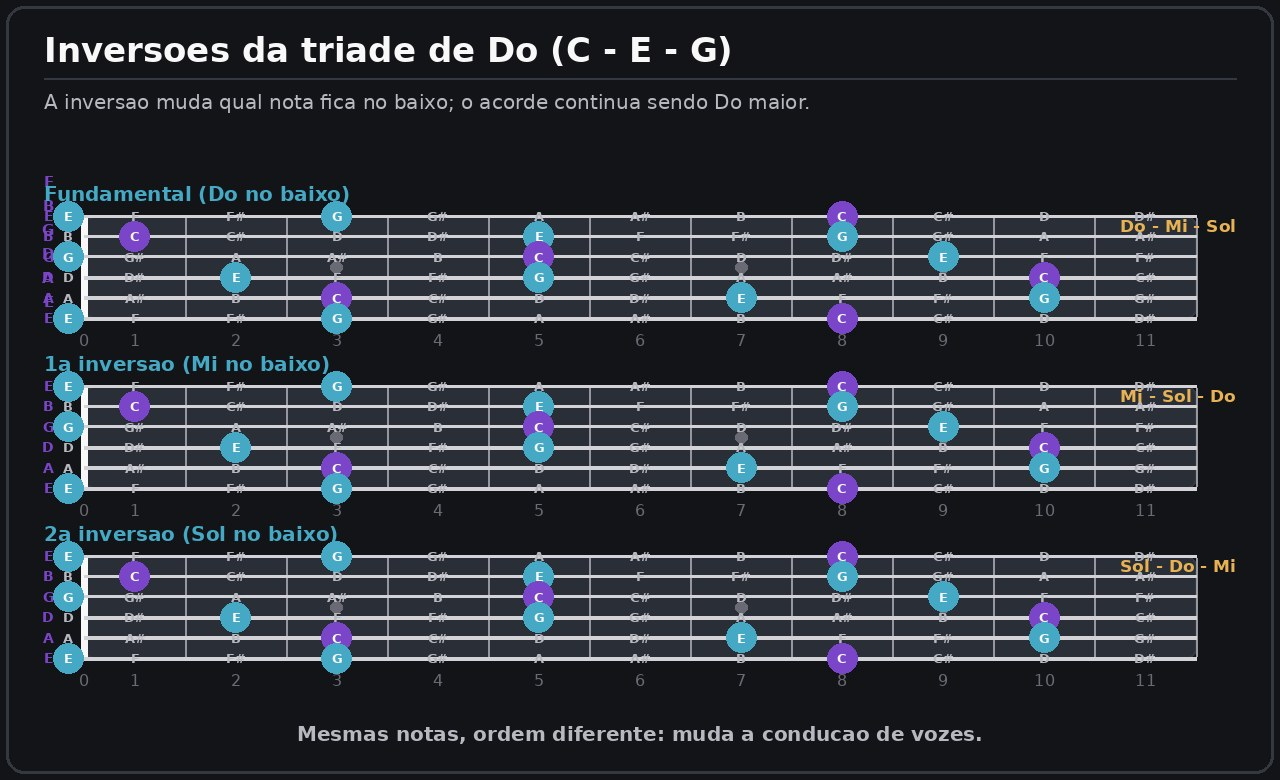
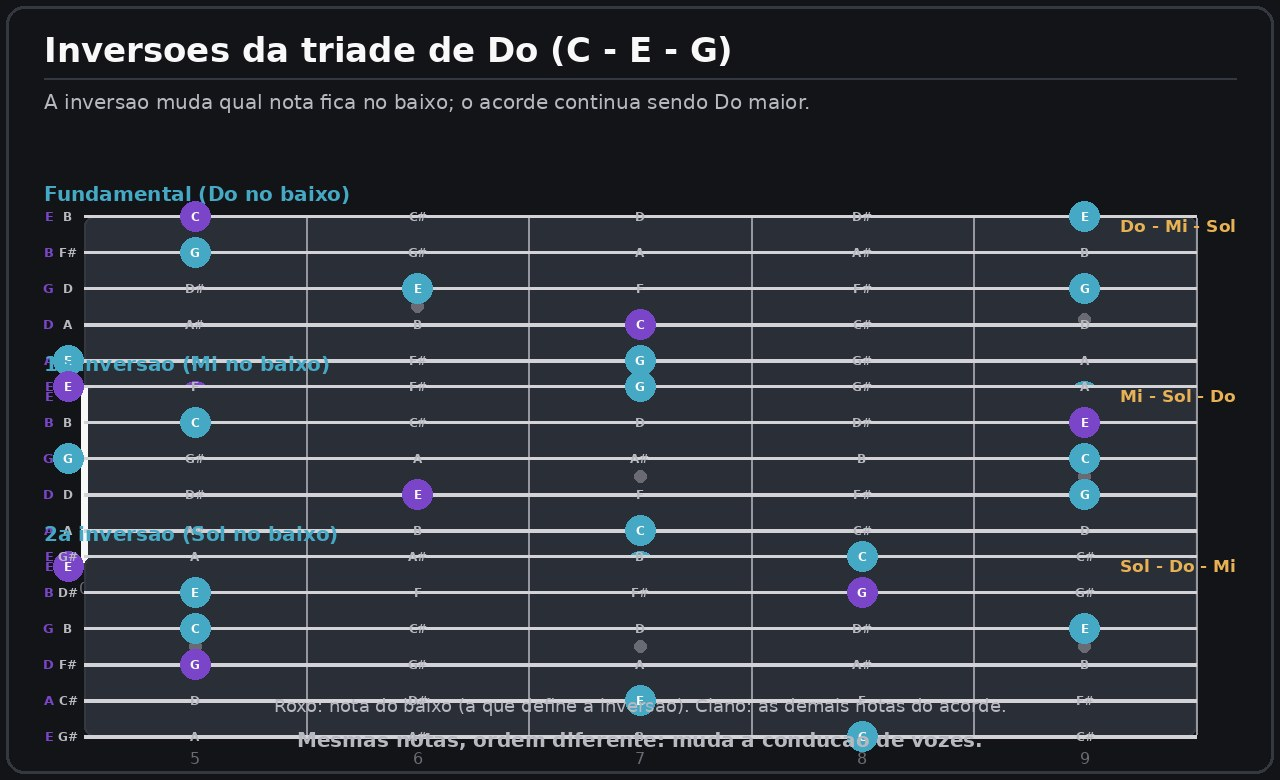
fix(modulo-4): corrige achados do painel de revisao
Achados bloqueantes do Musico (rodada 1, PR #15):
- Achado 1: partitura m4_partitura_familia nao batia com o audio (imagem
  desenhava C-E-G-Mib-Sol menor; audio tocava C-E-G-Mib-Solb diminuta).
  Alinha imagem e audio em C-E-G -> Mib-Solb (diminuta), legendas de
  Topic4B/Topic4H corrigidas, audio soletrado com bemois (Eb4, Gb4) e novo
  teste em testModule4() confere a correspondencia nota a nota.
- Achado 2/5: diagrama m4_inversoes desenhava o mesmo braco tres vezes (a
  variavel frets era dado morto). Agora cada linha destaca a nota do baixo
  da inversao (tonica, terca, quinta) na regiao correta do braco, com legenda.
- Achado 3: Topic4A dizia que Mi estava na '3a corda solta' (a 3a solta e
  Sol) -> corrigido para a 1a/6a corda.
- Achado 4: Topic4C dizia 'Sol na 1a corda solta' (a 1a solta e Mi) ->
  corrigido para Sol na 1a corda, casa 3, e Mi na 1a corda solta.

Menores:
- Achado 6: texto do gate alinhado ao numero de acordes (quatro; o modelo de
  improvisacao do nivel 2 e o 'vamp de 2 acordes').
- Soletracoes de audio alinhadas as cifras descritas (Bb, Eb, Ab, Gb).

Midia regenerada por tools/make_diagrams.py (idempotente). Suite em
1557/1557; app e testes compilam sem avisos.

diff --git a/tools/make_diagrams.py b/tools/make_diagrams.py
@@ -1024,18 +1024,28 @@ def d_m4_inversoes():
     frame(d, h)
     y = title(d, "Inversoes da triade de Do (C - E - G)")
     y = subtitle(d, "A inversao muda qual nota fica no baixo; o acorde continua sendo Do maior.", y)
-    string_labels(d, MARGIN + 10, y + 60, 3 * 40, gap_font=font(15, True))
-    for k, (label, frets, cap) in enumerate([
-            ("Fundamental (Do no baixo)", [-1, -1, 10, 9, 8, -1], "Do - Mi - Sol"),
-            ("1a inversao (Mi no baixo)", [-1, -1, 2, 0, 1, -1], "Mi - Sol - Do"),
-            ("2a inversao (Sol no baixo)", [-1, -1, 5, 5, 5, -1], "Sol - Do - Mi")]):
+    rows = [
+        ("Fundamental (Do no baixo)", [-1, -1, 10, 9, 8, -1], "Do - Mi - Sol"),
+        ("1a inversao (Mi no baixo)", [-1, -1, 2, 0, 1, -1], "Mi - Sol - Do"),
+        ("2a inversao (Sol no baixo)", [-1, -1, 5, 5, 5, -1], "Sol - Do - Mi"),
+    ]
+    for k, (label, frets, cap) in enumerate(rows):
         top = y + 60 + k * 170
         d.text((MARGIN, top), label, font=font(20, True), fill=CYAN, anchor="la")
-        string_labels(d, MARGIN + 10, top + 34, 3 * 34, gap_font=font(14, True))
-        fretboard(d, MARGIN + 40, top + 34, W - 2 * MARGIN - 80, 3 * 34, n_frets=11,
-                  start_fret=0, highlight={0, 4, 7}, root_pc=0, note_font=font(13, True))
+        string_labels(d, MARGIN + 10, top + 34, 6 * 30, gap_font=font(13, True))
+        # Pitch classes actually sounded, and the bass = lowest sounding string
+        # (the first non-muted entry, since TUNING runs from the 6th to the 1st).
+        sounded = {(open_midi + f) % 12 for (open_midi, _), f in zip(TUNING, frets) if f >= 0}
+        bass_pc = next((open_midi + f) % 12 for (open_midi, _), f in zip(TUNING, frets) if f >= 0)
+        played = [f for f in frets if f >= 0]
+        start = max(0, min(played) - 1)
+        n = max(5, max(played) - start + 2)
+        fretboard(d, MARGIN + 40, top + 34, W - 2 * MARGIN - 80, 6 * 30, n_frets=n,
+                  start_fret=start, highlight=sounded, root_pc=bass_pc, note_font=font(12, True))
         d.text((W - MARGIN, top + 34), cap, font=font(17, True), fill=GOLD, anchor="ra")
-    d.text((W / 2, h - 46), "Mesmas notas, ordem diferente: muda a conducao de vozes.",
+    d.text((W / 2, h - 74), "Roxo: nota do baixo (a que define a inversao). Ciano: as demais notas do acorde.",
+           font=font(18), fill=TXT2, anchor="mm")
+    d.text((W / 2, h - 40), "Mesmas notas, ordem diferente: muda a conducao de vozes.",
            font=font(20, True), fill=TXT2, anchor="mm")
     return img
 
@@ -1179,8 +1189,8 @@ def d_m4_partitura_tetrade():
 
 def d_m4_partitura_familia():
     return _score_image("m4_familia", [("C", 4, None), ("E", 4, None), ("G", 4, None),
-                                       ("E", 4, "b"), ("G", 4, None)],
-                        "Partitura: familia de Do (maior -> menor)")
+                                       ("E", 4, "b"), ("G", 4, "b")],
+                        "Partitura: familia de Do (maior -> diminuta)")
 
 
 def d_m4_partitura_progressao():

diff --git a/Source/Course/Content/Topic4B.cpp b/Source/Course/Content/Topic4B.cpp
@@ -48,8 +48,8 @@ std::vector<ContentItem> topic4B()
             { "Aumentada", "0–4–8", "Dó–Mi–Sol♯", "suspensa, flutuante" },
             { "Diminuta", "0–3–6", "Dó–Mi♭–Sol♭", "tensa, instável" },
         }),
-        aud ({ "C4", "E4", "G#4" }, "Tríade aumentada (Dó–Mi–Sol♯): som suspenso, que parece não resolver."),
-        aud ({ "C4", "D#4", "F#4" }, "Tríade diminuta (Dó–Mi♭–Sol♭): som tenso e instável."),
+        aud ({ "C4", "E4", "Ab4" }, "Tríade aumentada (Dó–Mi–Sol♯): som suspenso, que parece não resolver."),
+        aud ({ "C4", "Eb4", "Gb4" }, "Tríade diminuta (Dó–Mi♭–Sol♭): som tenso e instável."),
 
         h ("Onde a aumentada aparece"),
         p (
@@ -71,7 +71,7 @@ std::vector<ContentItem> topic4B()
         b ("Maior e menor: repousam, soam resolvidas."),
         b ("Aumentada: flutua, não repousa."),
         b ("Diminuta: tensiona, pede para resolver."),
-        aud ({ "C4", "E4", "G4", "C4", "E4", "G#4", "C4", "D#4", "F#4" },
+        aud ({ "C4", "E4", "G4", "C4", "E4", "Ab4", "C4", "Eb4", "Gb4" },
              "Dó maior, aumentado e diminuto em sequência: sinta o contraste de estabilidade."),
 
         h ("Tocar as tríades alteradas no instrumento"),
@@ -134,8 +134,8 @@ std::vector<ContentItem> topic4B()
         b ("Use a aumentada como acorde de passagem antes de um acorde estável."),
         b ("Use a diminuta para ligar dois acordes por cromatismo."),
         b ("A tensão precisa de contraste: não toque tudo alterado."),
-        part ("m4_partitura_familia", { "C4", "E4", "G4", "D#4", "F#4" },
-              "Partitura da família de Dó: da tríade maior (Dó–Mi–Sol) para a diminuta (Dó–Mi♭–Sol♭)."),
+        part ("m4_partitura_familia", { "C4", "E4", "G4", "Eb4", "Gb4" },
+              "Partitura da família de Dó: a tríade maior (Dó–Mi–Sol) e, em seguida, a terça e a quinta que descem para formar a diminuta (Dó–Mi♭–Sol♭)."),
 
         h ("Erros comuns"),
         p (

diff --git a/Source/Course/Content/Topic4A.cpp b/Source/Course/Content/Topic4A.cpp
@@ -49,11 +49,11 @@ std::vector<ContentItem> topic4A()
         h ("Maior e menor: a mesma forma, uma nota diferente"),
         p (
             "No braço, o acorde maior e o menor da mesma tônica ficam muito próximos. Muitas vezes basta levantar ou baixar um dedo na corda onde está a terça. Essa proximidade é a chave para trocar entre maior e menor sem mudar de posição — e é a base da harmonia que você vai usar em todas as músicas."),
-        b ("Dó maior: Dó–Mi–Sol (a terça, Mi, está na 3ª corda solta)."),
+        b ("Dó maior: Dó–Mi–Sol (a terça, Mi, é a 1ª corda solta; a 6ª também é Mi, duas oitavas abaixo)."),
         b ("Dó menor: Dó–Mi♭–Sol (a mesma forma, com a terça abaixada um semitom)."),
         b ("Ouvir a terça é ouvir a diferença entre os dois acordes."),
         aud ({ "C4", "E4", "G4" }, "Tríade maior (Dó–Mi–Sol): som aberto e estável."),
-        aud ({ "C4", "D#4", "G4" }, "Tríade menor (Dó–Mi♭–Sol): só a terça mudou, o som ficou fechado."),
+        aud ({ "C4", "Eb4", "G4" }, "Tríade menor (Dó–Mi♭–Sol): só a terça mudou, o som ficou fechado."),
 
         h ("Como ouvir a diferença"),
         p (

diff --git a/Source/Course/Content/Topic4C.cpp b/Source/Course/Content/Topic4C.cpp
@@ -97,7 +97,7 @@ std::vector<ContentItem> topic4C()
 
         h ("Disposição aberta com cordas soltas"),
         p (
-            "Uma das belezas da guitarra é poder usar cordas soltas na disposição aberta. Isso dá um som cristalino, com muito corpo, típico do violão. Em Dó maior, você pode tocar Dó na 5ª corda, Sol na 1ª corda solta e Mi na 4ª — a corda solta acrescenta brilho e ressonância. Esse recurso é explorado em arranjos de MPB, de bossa nova e de música instrumental."),
+            "Uma das belezas da guitarra é poder usar cordas soltas na disposição aberta. Isso dá um som cristalino, com muito corpo, típico do violão. Em Dó maior, você pode tocar Dó na 5ª corda (casa 3), Sol na 1ª corda (casa 3) e Mi na 1ª corda solta — a corda solta acrescenta brilho e ressonância. Esse recurso é explorado em arranjos de MPB, de bossa nova e de música instrumental."),
         b ("Cordas soltas acrescentam brilho e ressonância."),
         b ("Som típico do violão e da música instrumental."),
         b ("Explore as cordas soltas dentro do acorde."),

diff --git a/Source/Course/Content/Topic4F.cpp b/Source/Course/Content/Topic4F.cpp
@@ -40,7 +40,7 @@ std::vector<ContentItem> topic4F()
         b ("Essenciais: tônica, terça e sétima."),
         b ("Quinta: dispensável na maioria dos casos."),
         b ("Tensões (9, 11, 13): cor, mas opcionais."),
-        aud ({ "C4", "E4", "A#4" }, "Acorde reduzido ao essencial (Dó–Mi–Si♭): ainda se reconhece o dominante."),
+        aud ({ "C4", "E4", "Bb4" }, "Acorde reduzido ao essencial (Dó–Mi–Si♭): ainda se reconhece o dominante."),
 
         h ("Formação das tríades e das tétrades"),
         p (
@@ -80,7 +80,7 @@ std::vector<ContentItem> topic4F()
         b ("Terça: define maior ou menor."),
         b ("Quinta: define justa, aumentada ou diminuta."),
         b ("Sétima: define a família (7M, 7, m7…)."),
-        aud ({ "C4", "E4", "G4", "C4", "D#4", "G4", "C4", "E4", "G#4", "C4", "D#4", "F#4" },
+        aud ({ "C4", "E4", "G4", "C4", "Eb4", "G4", "C4", "E4", "Ab4", "C4", "Eb4", "Gb4" },
              "Alterando uma nota de cada vez: maior, menor, aumentado, diminuto."),
 
         h ("Acordes suspensos"),

diff --git a/tests/TestMain.cpp b/tests/TestMain.cpp
@@ -1255,6 +1255,21 @@ void testModule4()
                    "module 4 gate moves to A minor");
         }
     check (hasGate, "module 4 has a gate exercise");
+
+    // The score `m4_partitura_familia` shows the major triad and then the two
+    // notes that move down to turn it into the diminished triad (Dó–Mi–Sol →
+    // Dó–Mi♭–Sol♭). Its audio must match the image note for note: pitch classes
+    // 0, 4, 7 (major) then 3, 6 (the diminished third and fifth).
+    for (const auto& topic : m4->lessons)
+        for (const auto& item : topic.detail)
+            if (item.kind == ContentKind::score && item.imageName == "m4_partitura_familia")
+            {
+                std::vector<int> pcs;
+                for (const int m : item.notes)
+                    pcs.push_back (m % 12);
+                check (pcs == std::vector<int> ({ 0, 4, 7, 3, 6 }),
+                       "family score audio matches the image (Dó–Mi–Sol → Mi♭–Sol♭)");
+            }
 }
 
 int main()

diff --git a/Source/Course/ModuleCatalog.cpp b/Source/Course/ModuleCatalog.cpp
@@ -1546,9 +1546,10 @@ namespace
         };
 
         m.gateChallenge = juce::String::fromUTF8 (
-            "Tocar C – Am – F – G (vamp de 2 acordes, nível 2) a 72 BPM com ≥90% de "
-            "acerto de acordes e on_grid_ratio ≥ 0,78. Os acordes são tríades "
-            "construídas pelos intervalos estudados no módulo.");
+            "Tocar C – Am – F – G (quatro acordes; o modelo de improvisação do "
+            "nível 2 é o 'vamp de 2 acordes') a 72 BPM com ≥90% de acerto de "
+            "acordes e on_grid_ratio ≥ 0,78. Os acordes são tríades construídas "
+            "pelos intervalos estudados no módulo.");
 
         // Pattern and link the module must cite (REQ-007, REQ-010).
         m.practice.patternId = "PTN-A-TRIAD";

diff --git a/Source/Course/Content/Topic4H.cpp b/Source/Course/Content/Topic4H.cpp
@@ -110,8 +110,8 @@ std::vector<ContentItem> topic4H()
         b ("Fase 3: troca no tempo."),
         b ("Fase 4: acompanha a progressão inteira."),
         b ("Fase 5: cria livremente."),
-        part ("m4_partitura_familia", { "C4", "E4", "G4", "D#4", "F#4" },
-              "Partitura da família de Dó: a forma maior (Dó–Mi–Sol) e a diminuta (Dó–Mi♭–Sol♭)."),
+        part ("m4_partitura_familia", { "C4", "E4", "G4", "Eb4", "Gb4" },
+              "Partitura da família de Dó: a forma maior (Dó–Mi–Sol) e, em seguida, a terça e a quinta que descem para formar a diminuta (Dó–Mi♭–Sol♭)."),
 
         h ("Erros comuns"),
         p (

diff --git a/Source/Course/Content/Topic4E.cpp b/Source/Course/Content/Topic4E.cpp
@@ -51,7 +51,7 @@ std::vector<ContentItem> topic4E()
         b ("Tríade menor + sétima menor = m7."),
         b ("Tríade menor + sétima maior = m(maj7) — raro, som suspenso."),
         aud ({ "C4", "E4", "G4", "B4" }, "Dó com sétima maior (Dó7M): brilho e suspensão."),
-        aud ({ "C4", "E4", "G4", "A#4" }, "Dó com sétima dominante (Dó7): tensão que pede resolução."),
+        aud ({ "C4", "E4", "G4", "Bb4" }, "Dó com sétima dominante (Dó7): tensão que pede resolução."),
 
         h ("O que cada tétrade comunica"),
         p (

diff --git a/AGENTS.md b/AGENTS.md
@@ -357,6 +357,7 @@ Uma entrega só é "pronta" quando:
 | 2026-11-16 | orquestrador + musician + pm + po + tech-lead + architect + developer + qa + security-engineer + set | **Pipeline de módulos (Etapas) e painel de revisão.** Criados três sub-agentes: `module-author` (transforma uma Etapa de `docs/MUSIC.md` em módulo completo, no padrão do Módulo 2 — teoria ≥5 páginas/tópico, imagens, áudios, partituras com áudio, 3–5 exercícios/tópico, exercícios tocados no instrumento reconhecidos pelo app), `module-reviewer` (painel: Músico, PM, PO, Tech Lead, Arquiteto, Tech Lead, Software Engineers, Tech Lead, QA, Security, SET; qualquer problema volta ao autor e o painel **reinicia do começo**) e `release-reviewer` (revisão final cross-módulo: Arquiteto, Tech Lead, Software Engineers, Tech Lead; merge para `main` + instalador de teste). Um módulo por branch/PR; nenhum módulo aceito sem painel verde na mesma rodada; merge só por PR, sem reescrever histórico, backup antes de todo push (§11) | Todo o curso (Etapas 2–10) passa a ser produzido e revisado pelo mesmo pipeline, com qualidade e padrão verificáveis |
 | 2026-11-16 | musician + developer + architect + qa + set | **Módulo 2 (Etapa 2 — Teoria dos intervalos e percepção musical) implementado** como referência do padrão: `Source/Course/Intervals.*` (teoria pura de intervalos), `Source/Audio/TonePlayer.*` (áudio de exemplos, RT-safe, REQ-004), `ContentKind::audio`/`score` no modelo e na UI, `Exercise::interval` + `Exercise::usesGrid` e `evaluateIntervals` (o app reconhece as notas tocadas e confere a distância em semitons, em qualquer posição do braço); 8 tópicos (A–H), cada um com ≥5 páginas, imagens, tabelas, áudios e partitura com áudio; 3–5 exercícios por tópico (EX-2.*), gate `C–F–G–C` a 64 BPM; suíte em **950 checagens verdes** | Módulo 2 jogável e auditável; serve de gabarito para as Etapas seguintes |
 | 2026-11-16 | orquestrador + musician + pm + po + tech-lead + architect + developer + qa + security-engineer + set | **16 sub-agentes por Etapa (3–10) criados.** Cada Etapa 3–10 ganhou um **autor** (`mc-modulo-<N>`) e um **revisor** (`mc-rv-modulo-<N>`), já com objetivo, conteúdos, prática, tópicos sugeridos e os dados fixados da Etapa (nível, BPM meta, `on_grid_ratio`, branch). O autor segue o padrão do Módulo 2 (teoria ≥5 páginas/tópico, imagens, áudios, partituras com áudio, 3–5 exercícios/tópico, exercícios tocados reconhecidos pelo app) numa branch própria; o revisor roda o painel completo (Músico, PM, PO, Tech Lead, Arquiteto, Tech Lead, Software Engineers, Tech Lead, QA, Security, SET) e qualquer achado devolve o item ao autor, reiniciando o painel até todos passarem. As Etapas 3–10 são construídas **em paralelo**; a asserção final de `testModule2()` ("3..20 são placeholders") passa a ser uma regra genérica para as branches não conflitarem | As Etapas 3–10 passam a ser produzidas e revisadas em paralelo pelo mesmo pipeline verificável do Módulo 2 |
+| 2026-11-16 | mc-modulo-4 (autor) + musician + developer | **Módulo 4 — correção dos achados do painel de revisão (rodada 1, PR #15).** Quatro bloqueantes do Músico e dois menores: (1) a partitura `m4_partitura_familia` não batia com o áudio — a imagem desenhava C–E–G–Mi♭–**Sol** (menor) e o áudio tocava C–E–G–Mi♭–**Sol♭** (diminuta); alinhados imagem e áudio em C–E–G → Mi♭–Sol♭ (diminuta), com legendas corrigidas em `Topic4B`/`Topic4H` e o áudio soletrado com bemóis (`Eb4`,`Gb4`); novo teste em `testModule4()` confere a correspondência nota a nota. (2) o diagrama `m4_inversoes` desenhava o mesmo braço três vezes (a variável `frets` do laço era dado morto) — agora cada linha destaca a nota do **baixo** da inversão (tônica, terça, quinta) na região correta do braço, com legenda. (3) `Topic4A` dizia que Mi estava na "3ª corda solta" (a 3ª solta é Sol) — corrigido para a 1ª/6ª corda. (4) `Topic4C` dizia "Sol na 1ª corda solta" (a 1ª solta é Mi) — corrigido para Sol na 1ª corda, casa 3, e Mi na 1ª corda solta. (5) `frets` agora é usado (fim do código morto). (6) texto do gate alinhado ao número de acordes. Também alinhadas as soletrações de áudio (`Bb`,`Eb`,`Ab`,`Gb`) às cifras descritas. Suíte em **1557 checagens verdes**; app e testes compilam sem avisos; `python3 tools/make_diagrams.py` regenera as mídias de forma idempotente | Módulo 4 passa a cumprir o DoD de mídia (partitura ↔ áudio) e os fatos musicais; painel reinicia do revisor 1 |
 | 2026-11-16 | mc-modulo-4 (autor) + musician + developer | **Módulo 4 (Etapa 4 — construção de acordes: tríades e tétrades) implementado** na branch `feat/modulo-4-construcao-de-acordes-triades-e-tetrades`, no padrão do Módulo 2: nove tópicos (A–I: tríades maiores/menores; aumentadas/diminutas; abertas/fechadas; inversões; tétrades; formação de acordes; CAGED e famílias; as cinco fases das famílias; acordes clean e distribuição pelo braço), cada um em `Source/Course/Content/Topic4<L>.cpp` com ≥5 páginas (`content::minTopicChars`), ≥1 imagem e ≥1 tabela; o módulo tem áudios e partituras (toda partitura leva o seu áudio). 15 diagramas novos (`m4_*`) desenhados por `tools/make_diagrams.py` (funções `d_m4_<nome>` registradas em `DIAGRAMS.update({...})`, imagens reconstruídas pelo script, nunca à mão). `makeModule4()` (nível 2, BPM meta 72, `on_grid_ratio` 0,78, `implemented = true`) registra 40 exercícios — 3–5 por tópico (A 5, B–D 4, E–F 5, G–I 4), ids `EX-4.<tópico>.<n>` —, misturando questionário e exercício tocado reconhecido pelo app (`chordPitchClasses` para tríades/tétrades em qualquer posição do braço; `intervalExercise` para as distâncias; `usesGrid = false` nos de identificação) —, o gate `GATE-4` (`isGate`, vamp C–Am–F–G a 72 BPM na grade), o pattern `PTN-A-TRIAD` e os guitarristas (REQ-007/REQ-010) e as apostilas curadas (REQ-006). `testModule4()` espelha `testModule2()`; a antiga asserção de `testModule2()`/`testModuleCatalog()` ("3..20 são placeholders") foi trocada por invariantes genéricas (números únicos, módulo 1 e 4 implementados, não-implementado sem aulas) para não conflitar com as branches paralelas. Suíte em **1555 checagens verdes**; app e testes compilam sem avisos | Módulo 4 jogável e auditável; serve de segunda referência do pipeline de módulos (Etapa 4 = nível 2) |
 
 
